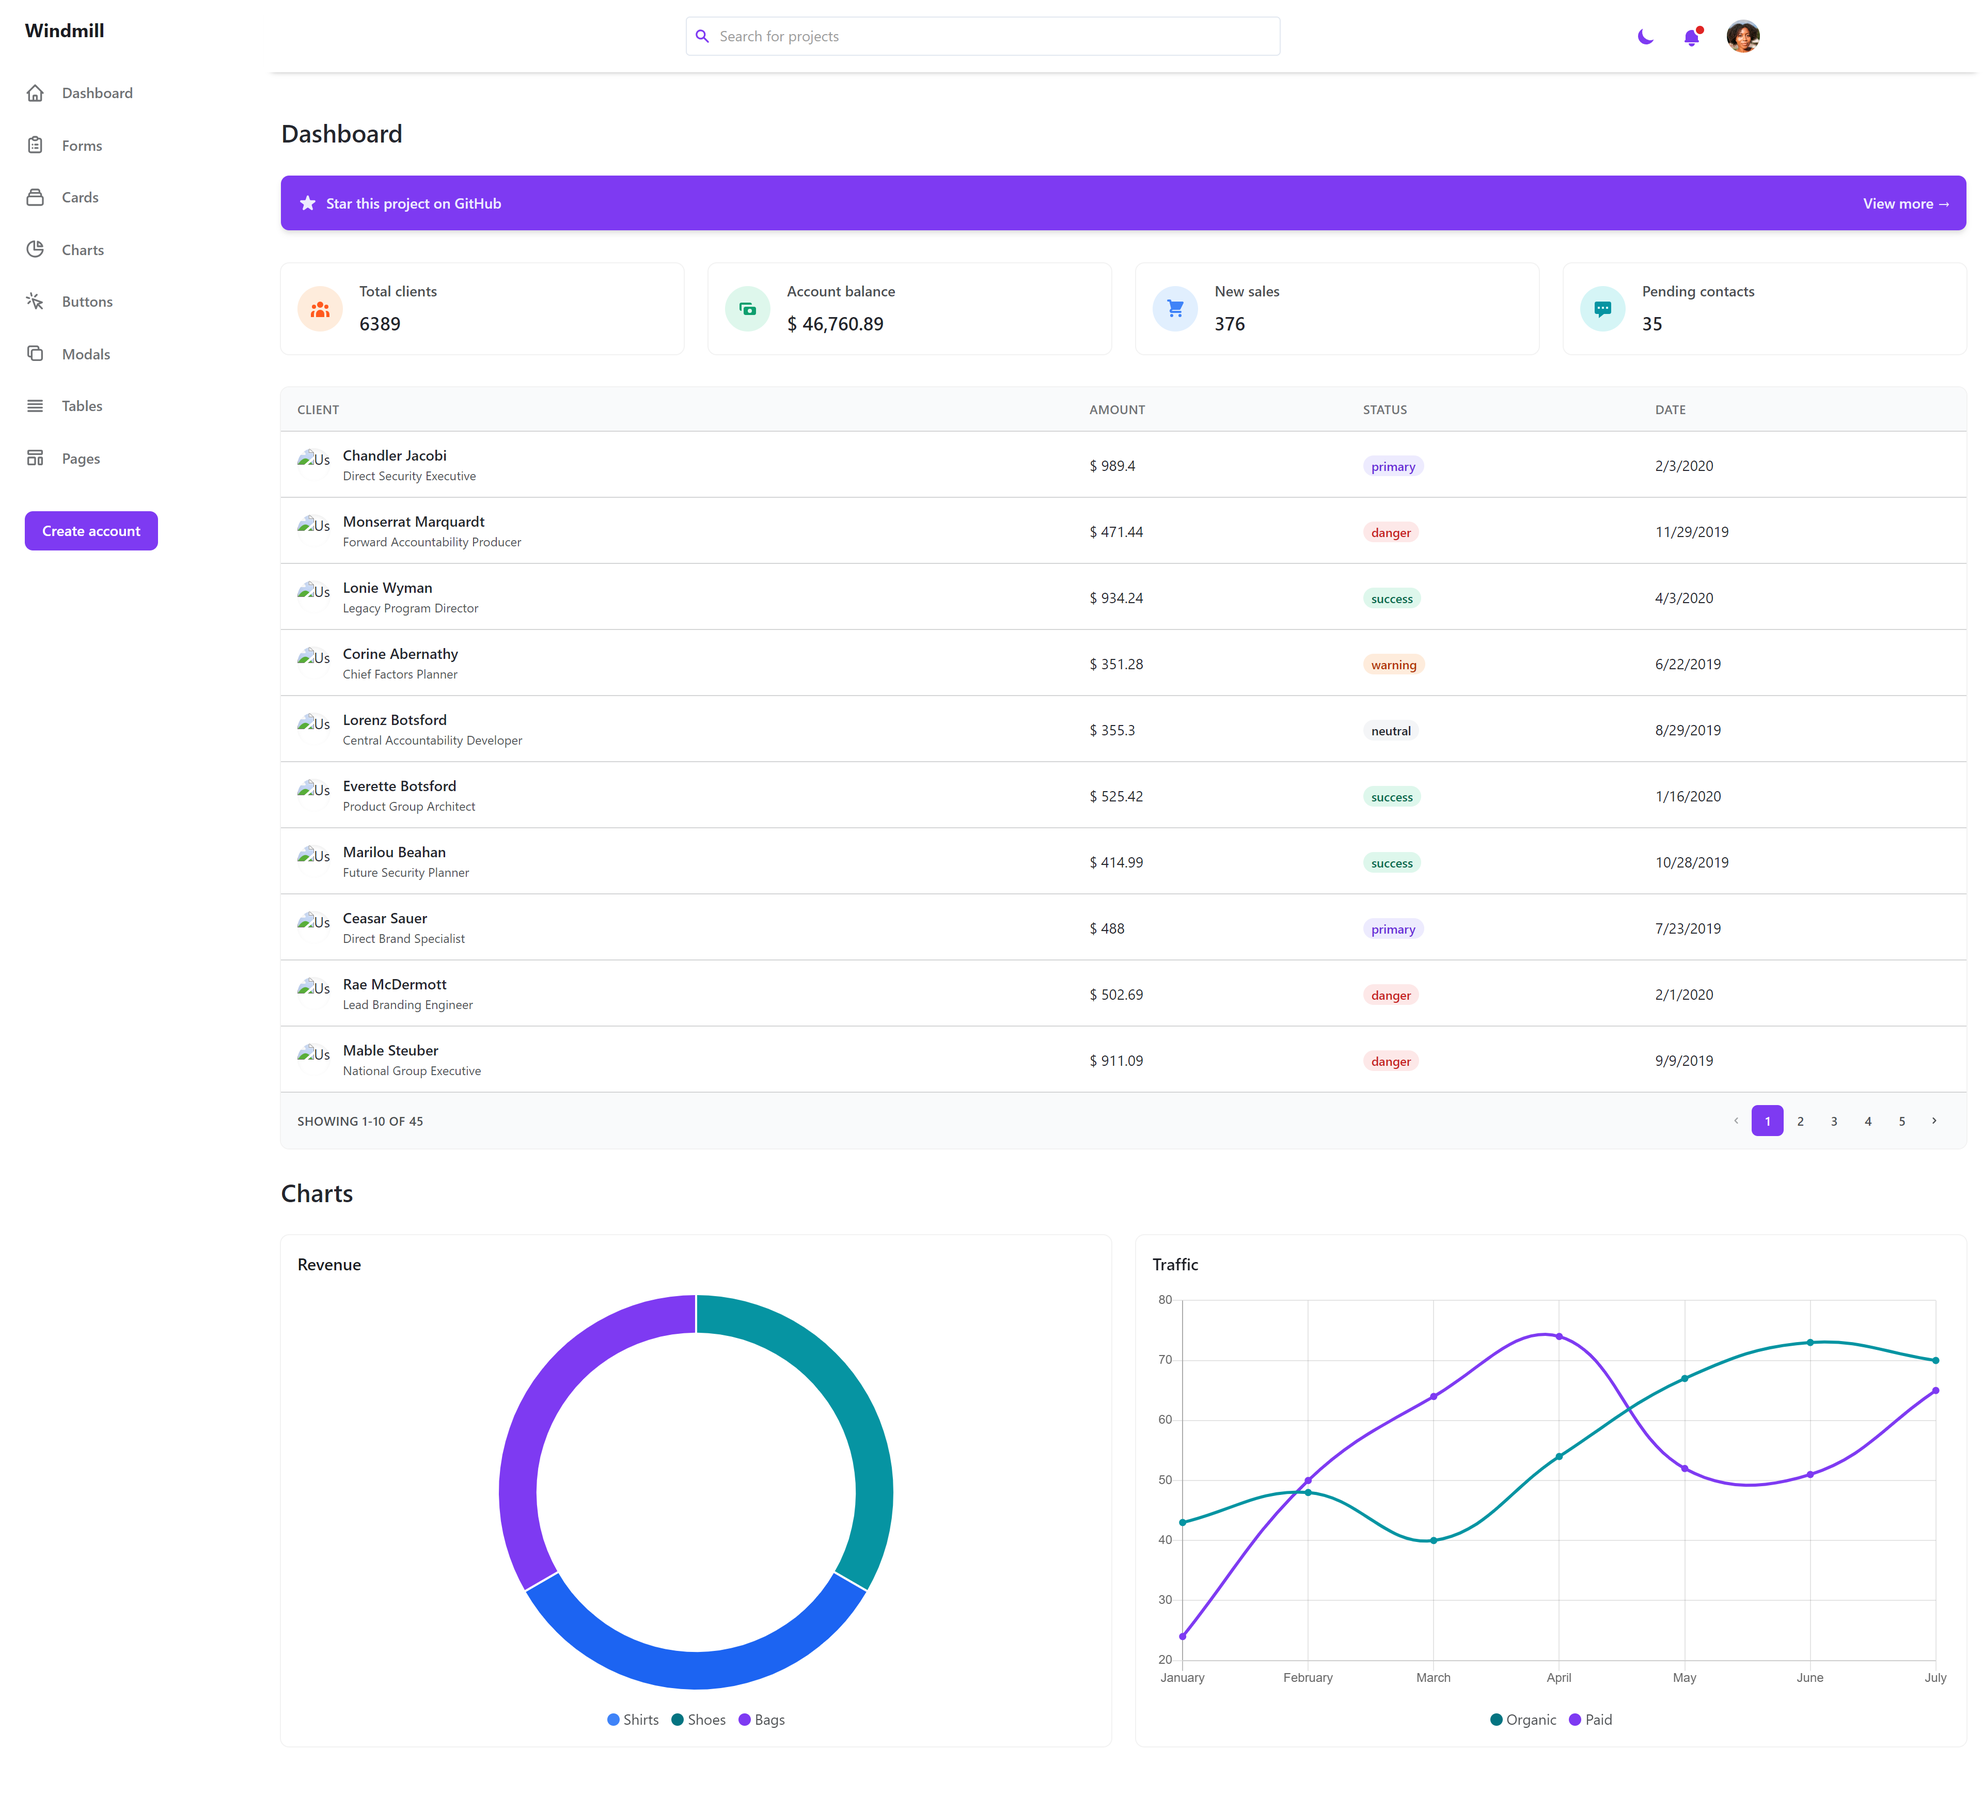
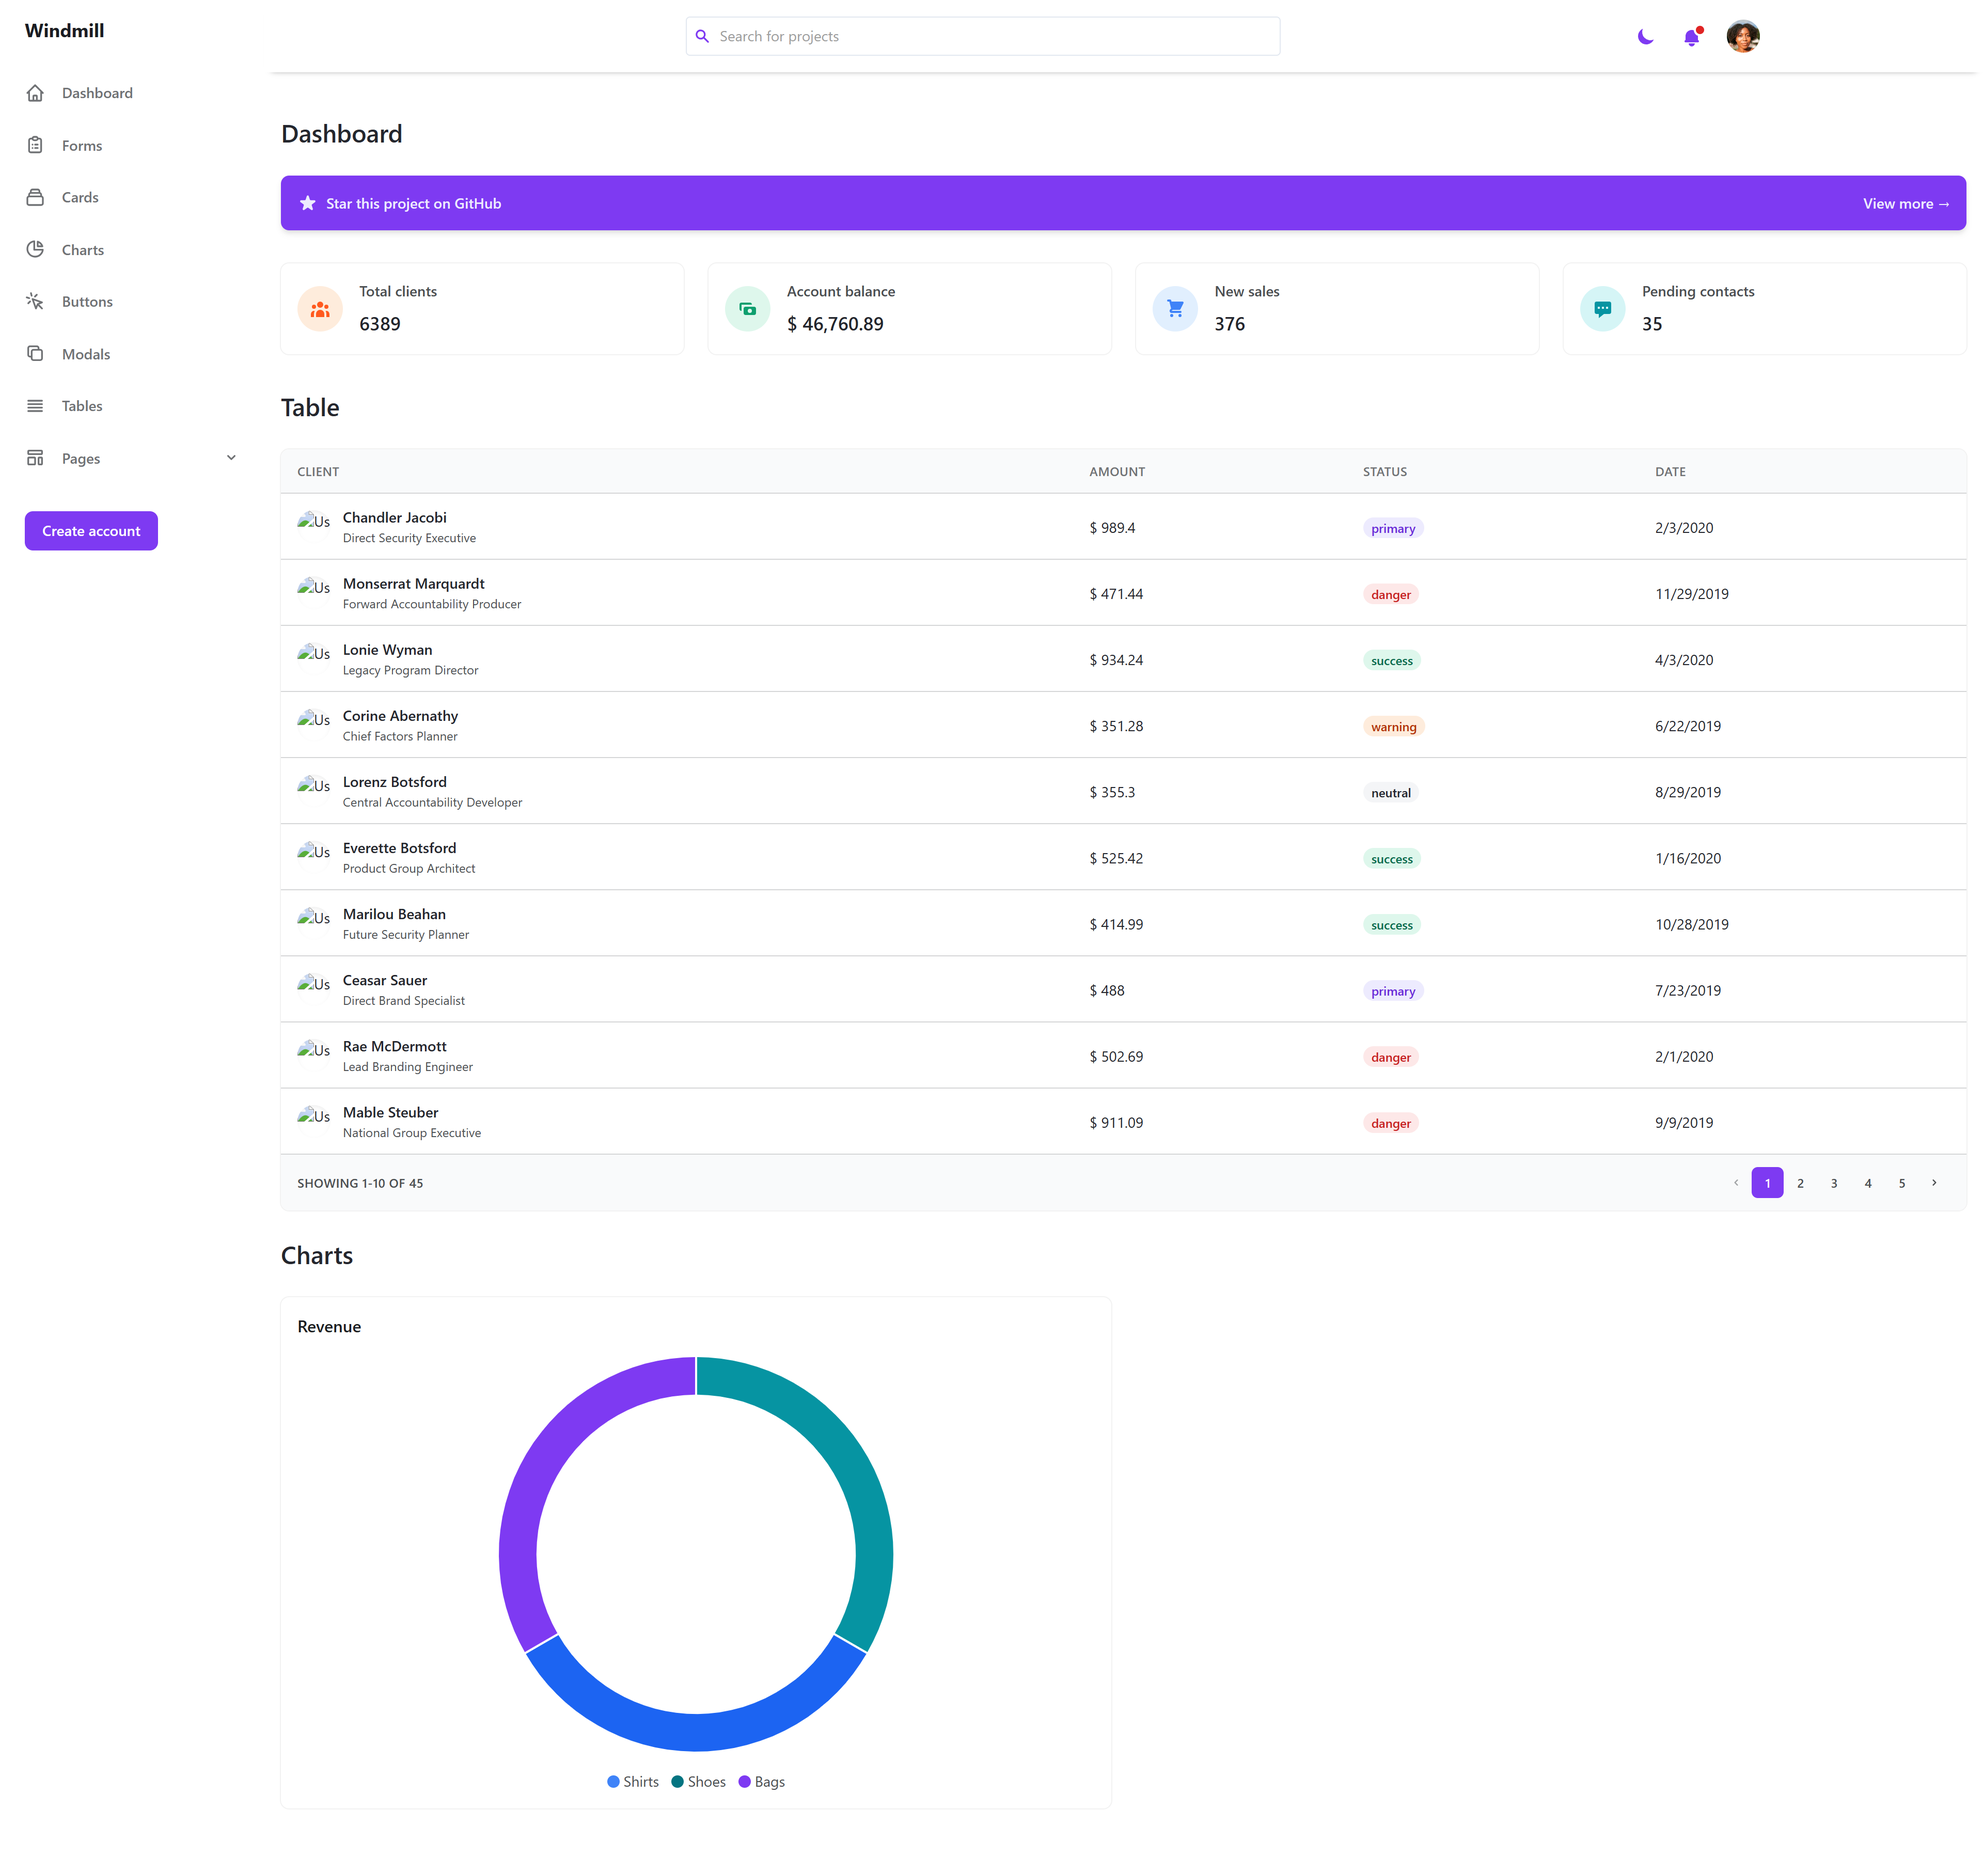
cd_6

diff --git a/src/pages/dashboard/Dashboard.js b/src/pages/dashboard/Dashboard.js
@@ -142,10 +142,6 @@ function Dashboard() {
           <ChartLegend legends={doughnutLegends} />
         </ChartCard>
 
-        <ChartCard title="Traffic">
-          <Line {...lineOptions} />
-          <ChartLegend legends={lineLegends} />
-        </ChartCard>
       </div>
     </>
   )
